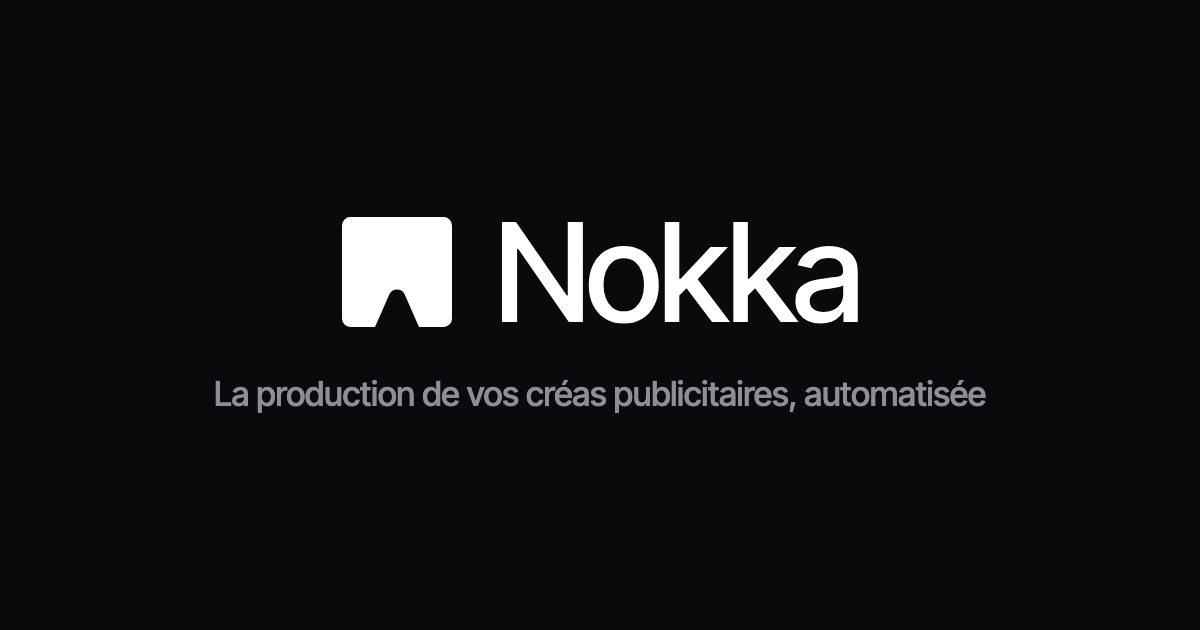
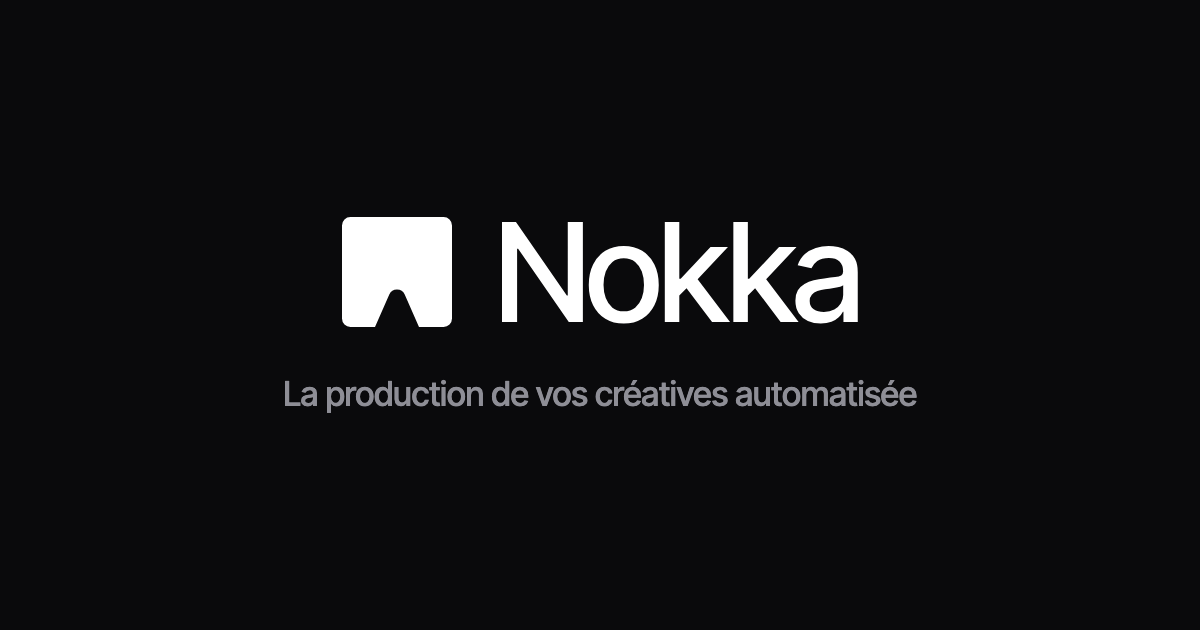
Titre « La production de vos créatives automatisée », cartes dans l'ordre du parcours
Créa strat, puis montage automatique, puis créatives statiques (ex « Statiques IA »). Plus de
mention du 9:16 dans l'intro. Le titre change partout, image de partage comprise.

Changed region(s): [[0.1542, 0.6032, 0.8325, 0.6635]]

diff --git a/index.html b/index.html
@@ -3,20 +3,20 @@
 <head>
 <meta charset="UTF-8">
 <meta name="viewport" content="width=device-width, initial-scale=1.0, viewport-fit=cover">
-<title>Nokka — La production de vos créas publicitaires, automatisée</title>
+<title>Nokka — La production de vos créatives automatisée</title>
 <meta name="description" content="Indiquez votre dossier de rushs : Nokka construit la créa strat ou suit la vôtre, crée des voix off ultra réalistes et monte vos publicités avec transitions, SFX et sous-titres. Et vos statiques IA dans la foulée.">
 <meta name="theme-color" content="#000000">
 <meta property="og:type" content="website">
 <meta property="og:url" content="https://nokka.io/">
 <link rel="canonical" href="https://nokka.io/">
-<meta property="og:title" content="Nokka — La production de vos créas publicitaires, automatisée">
+<meta property="og:title" content="Nokka — La production de vos créatives automatisée">
 <meta property="og:description" content="Vos rushs deviennent des publicités montées, prêtes à tester : créa strat, voix off, montage, SFX et sous-titres automatiques.">
 <meta property="og:image" content="https://nokka.io/og.png">
 <meta property="og:image:width" content="1200">
 <meta property="og:image:height" content="630">
-<meta property="og:image:alt" content="Nokka — La production de vos créas publicitaires, automatisée">
+<meta property="og:image:alt" content="Nokka — La production de vos créatives automatisée">
 <meta name="twitter:card" content="summary_large_image">
-<meta name="twitter:title" content="Nokka — La production de vos créas publicitaires, automatisée">
+<meta name="twitter:title" content="Nokka — La production de vos créatives automatisée">
 <meta name="twitter:description" content="Vos rushs deviennent des publicités montées, prêtes à tester : créa strat, voix off, montage, SFX et sous-titres automatiques.">
 <meta name="twitter:image" content="https://nokka.io/og.png">
 <link rel="icon" href="/favicon.svg" type="image/svg+xml">
@@ -409,26 +409,26 @@ body.dom-glass #gl { bottom: auto; height: 100lvh; }
     <div class="logo rise" style="--i:0"><svg class="logotype" viewBox="0 0 515.752 110" fill="currentColor" role="img" aria-label="Nokka"><title>Nokka</title><path d="M0 8.426A8.426 8.426 0 0 1 8.426 0L101.574 0A8.426 8.426 0 0 1 110 8.426L110 101.574A8.426 8.426 0 0 1 101.574 110L77 110L62.708 77.623A8.426 8.426 0 0 0 47.292 77.623L33 110L8.426 110A8.426 8.426 0 0 1 0 101.574Z"/><path d="M225.772 5L240.872 5L240.872 105L226.779 105L176.107 31.711L175.101 31.711L175.101 105L160 105L160 5L173.96 5L224.832 78.423L225.772 78.423ZM281.735 106.544Q271.198 106.544 263.312 101.711Q255.426 96.879 251.097 88.154Q246.768 79.43 246.768 67.886Q246.768 56.208 251.097 47.45Q255.426 38.691 263.312 33.859Q271.198 29.027 281.735 29.027Q292.339 29.027 300.191 33.859Q308.044 38.691 312.406 47.45Q316.768 56.208 316.768 67.886Q316.768 79.43 312.406 88.154Q308.044 96.879 300.191 101.711Q292.339 106.544 281.735 106.544ZM281.735 94.262Q288.648 94.262 293.144 90.638Q297.641 87.013 299.822 81.007Q302.003 75 302.003 67.886Q302.003 60.638 299.822 54.597Q297.641 48.557 293.144 44.933Q288.648 41.309 281.735 41.309Q274.889 41.309 270.426 44.933Q265.963 48.557 263.748 54.597Q261.533 60.638 261.533 67.886Q261.533 75 263.748 81.007Q265.963 87.013 270.426 90.638Q274.889 94.262 281.735 94.262ZM344.549 71.203L337.304 78.485L337.304 105L322.808 105L322.808 5L337.304 5L337.304 61.779L338.647 61.779L368.512 29.966L385.962 29.966L355.634 62.268L388.043 105L370.056 105ZM413.097 71.203L405.852 78.485L405.852 105L391.356 105L391.356 5L405.852 5L405.852 61.779L407.195 61.779L437.061 29.966L454.51 29.966L424.182 62.268L456.591 105L438.604 105ZM478.772 106.611Q471.658 106.611 465.886 103.96Q460.115 101.309 456.759 96.208Q453.403 91.107 453.403 83.792Q453.403 77.416 455.853 73.356Q458.302 69.295 462.464 66.879Q466.625 64.463 471.725 63.255Q476.826 62.047 482.195 61.376Q488.974 60.638 493.135 60.101Q497.296 59.564 499.209 58.389Q501.121 57.215 501.121 54.597L501.121 54.262Q501.121 47.886 497.531 44.396Q493.94 40.906 486.893 40.906Q479.578 40.906 475.316 44.094Q471.054 47.282 469.443 51.309L455.685 48.154Q458.168 41.309 462.9 37.114Q467.631 32.919 473.772 30.973Q479.913 29.027 486.625 29.027Q491.121 29.027 496.155 30.067Q501.188 31.107 505.651 33.893Q510.115 36.678 512.933 41.846Q515.752 47.013 515.752 55.201L515.752 105L501.457 105L501.457 94.732L500.92 94.732Q499.578 97.483 496.725 100.235Q493.873 102.987 489.443 104.799Q485.014 106.611 478.772 106.611ZM481.927 94.933Q488.034 94.933 492.329 92.55Q496.625 90.168 498.907 86.275Q501.188 82.383 501.188 78.02L501.188 68.289Q500.383 69.027 498.168 69.698Q495.953 70.369 493.135 70.839Q490.316 71.309 487.631 71.678Q484.947 72.047 483.135 72.248Q478.907 72.852 475.417 74.094Q471.927 75.336 469.813 77.718Q467.698 80.101 467.698 83.993Q467.698 89.43 471.725 92.181Q475.752 94.933 481.927 94.933Z"/></svg></div>
 
     <div class="hero">
-      <h1 class="rise" style="--i:1">La production de vos créas publicitaires, automatisée</h1>
+      <h1 class="rise" style="--i:1">La production de vos créatives automatisée</h1>
       <p class="rise" style="--i:2">
         Vous indiquez votre dossier de rushs, Nokka fait tout le reste : il construit la
         créa strat ou suit la vôtre, crée les voix off, analyse chaque rush et monte vos
-        publicités, avec transitions, SFX et sous-titres. Des créas prêtes à tester en 9:16, et vos
+        publicités, avec transitions, SFX et sous-titres. Des créas prêtes à tester, et vos
         statiques dans la foulée.
       </p>
     </div>
 
     <div class="features">
       <div class="feature glass rise" style="--i:3" data-glass="20">
-        <div class="feature-title">Montage automatique</div>
-        <div class="feature-desc">Nokka analyse chacun de vos rushs, génère des voix off ultra réalistes et dynamiques, sans un silence, puis cale le montage dessus : coupes, transitions, SFX, sous-titres. Plus de 500 créas d'un coup, sans limite.</div>
-      </div>
-      <div class="feature glass rise" style="--i:4" data-glass="20">
         <div class="feature-title">Créa strat</div>
         <div class="feature-desc">Faites-la vous-même, ou laissez Nokka la construire. À chaque brief, il analyse la psychologie d'achat de chaque marché où vous vendez, dans de grandes bases de données : avis Amazon, Reddit, forums. Il en tire les verbatims, les objections, les angles et les accroches, tous sourcés. La même créa strat pilote vos vidéos et vos statiques.</div>
       </div>
+      <div class="feature glass rise" style="--i:4" data-glass="20">
+        <div class="feature-title">Montage automatique</div>
+        <div class="feature-desc">Nokka analyse chacun de vos rushs, génère des voix off ultra réalistes et dynamiques, sans un silence, puis cale le montage dessus : coupes, transitions, SFX, sous-titres. Plus de 500 créas d'un coup, sans limite.</div>
+      </div>
       <div class="feature glass rise" style="--i:5" data-glass="20">
-        <div class="feature-title">Statiques IA</div>
+        <div class="feature-title">Créatives statiques</div>
         <div class="feature-desc">Nokka vous donne une base de créas concurrentes à copier directement, enrichie chaque semaine des statiques qui performent le mieux. Clonez-les ou partez de zéro : vous choisissez le modèle IA, votre créa strat guide chaque visuel.</div>
       </div>
     </div>
